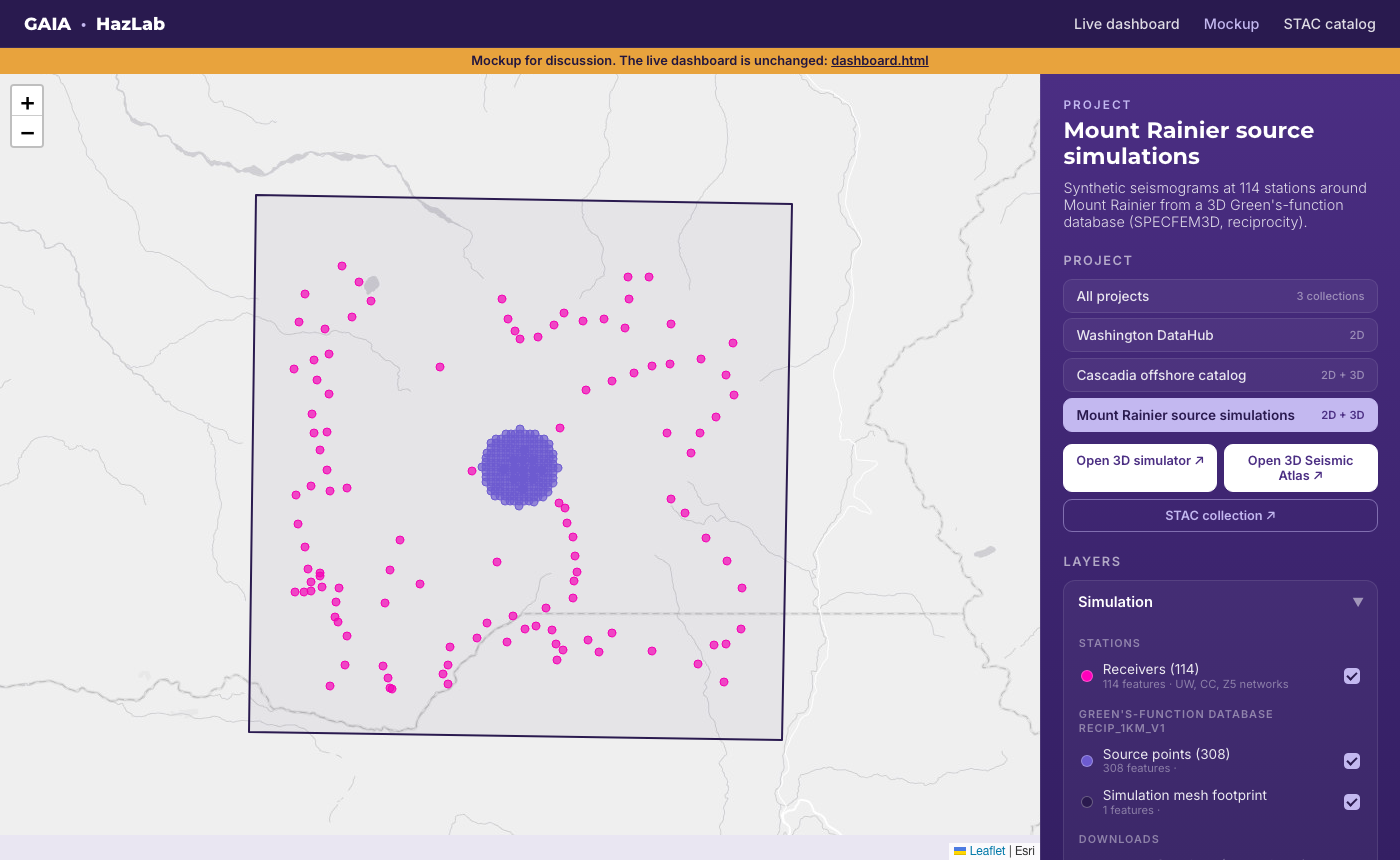
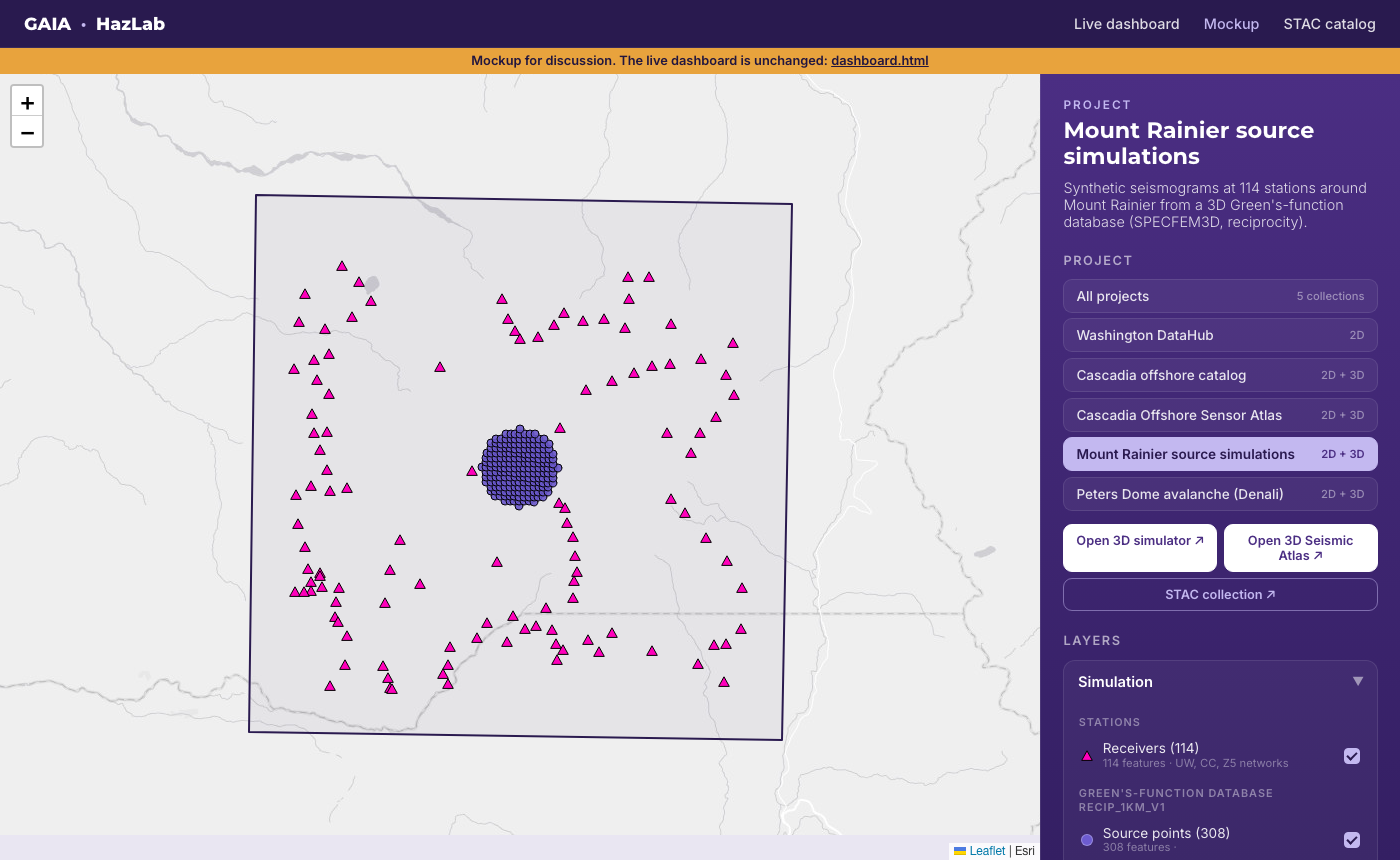
Mockup: one marker convention for every GAIA atlas
Seismometer = upright triangle, infrasound = inverted triangle, black 1 px
edge, 12 px on screen; other point sensors = 8 px circles with a black edge.
Encoded as gaia:style.symbol (or symbols by category) and applied in the
generator from one table (SENSOR_SYMBOLS): Washington seismometers and
infrasound, Cascadia stations, Rainier receivers, Peters Dome seismic and
infrasound, COSZO seismic sensors. Sidebar and legend show the same
markers. The convention and its sources are in 10-dashboard-stac.md.

diff --git a/website/mockups/dashboard-stac/index.html b/website/mockups/dashboard-stac/index.html
@@ -95,6 +95,7 @@
         .fp-label { background:rgba(42,26,79,0.9); color:#fff; border:0; border-radius:6px; font:600 0.78rem 'Inter'; padding:3px 7px; cursor:pointer; }
         .fp-label:hover { background:var(--peri); }
         .fp-label::before { display:none; }
+        .gm { background:none; border:0; }   /* SVG sensor markers (divIcon) */
         .legend { background:rgba(255,255,255,0.94); color:var(--ink); border-radius:8px; padding:0.5rem 0.65rem;
             font:0.72rem 'Inter'; box-shadow:0 1px 4px rgba(0,0,0,0.2); max-width:240px; }
         .legend:empty { display:none; }
@@ -180,6 +181,16 @@
         return `<div class="pop-title">${esc(name)}</div><div class="pop-table-wrap"><table class="pop-table">${rows}</table></div>${foot}`;
     }
 
+    // ---- GAIA atlas markers (same in every atlas, 2D and 3D; see project_coordination/10-dashboard-stac.md):
+    //      seismometer = upright triangle, infrasound = inverted triangle, other point sensors = circle;
+    //      black 1 px edge; triangles 12 px, circles 8 px, fixed on screen.
+    const MARKER_PATHS = { "triangle-up": "M6 0.8 L11.3 10.4 L0.7 10.4 Z", "triangle-down": "M0.7 1.6 L11.3 1.6 L6 11.2 Z" };
+    const markerSvg = (symbol, fill, px = 12) => MARKER_PATHS[symbol]
+        ? `<svg width="${px}" height="${px}" viewBox="0 0 12 12" style="overflow:visible;display:block"><path d="${MARKER_PATHS[symbol]}" fill="${fill}" stroke="#000" stroke-width="1" stroke-linejoin="round"/></svg>`
+        : `<svg width="${px}" height="${px}" viewBox="0 0 12 12" style="display:block"><circle cx="6" cy="6" r="4" fill="${fill}" stroke="#000" stroke-width="1"/></svg>`;
+    const markerIcon = (symbol, fill) => L.divIcon({ className:"gm", html:markerSvg(symbol, fill), iconSize:[12, 12], iconAnchor:[6, 6] });
+    const symbolFor = (st, p) => st.symbol || (st.symbols && p && st.symbols[p[st.property]]) || null;
+
     // ---- styles: points, sized events, lines, choropleth, categorical ----
     function fillFor(st, p) {
         if (st.kind === "choropleth") { const v = p[st.property]; if (v == null) return null;
@@ -195,8 +206,9 @@
             return `<b>${esc(t)}</b>` + st.colors.map((c, i) => `<div class="row"><span class="sw" style="background:${c}"></span>${lab[i]}</div>`).join("");
         }
         if (st.kind === "categorical")
-            return `<b>${esc(t)}</b>` + Object.entries(st.values).map(([k, c]) =>
-                `<div class="row"><span class="sw" style="background:${c}"></span>${esc((st.labels||{})[k] || k)}</div>`).join("");
+            return `<b>${esc(t)}</b>` + Object.entries(st.values).map(([k, c]) => {
+                const sym = st.symbols && st.symbols[k];
+                return `<div class="row">${sym ? `<span style="margin-right:2px">${markerSvg(sym, c)}</span>` : `<span class="sw" style="background:${c}"></span>`}${esc((st.labels||{})[k] || k)}</div>`; }).join("");
         return "";
     }
     function refreshLegend() {
@@ -228,9 +240,11 @@
         const g = L.geoJSON(null, {
             pointToLayer: (f, ll) => {
                 const c = fillFor(st, f.properties) || st.color || "#888";
+                const sym = symbolFor(st, f.properties);
+                if (sym) return L.marker(ll, { icon:markerIcon(sym, c), riseOnHover:true });
                 if (st.kind === "events") return L.circleMarker(ll, { radius:radius(f.properties), color:"#333", weight:0.5, fillColor:c, fillOpacity:0.8 });
-                if (st.kind === "markers" || st.kind === "categorical") return L.circleMarker(ll, { radius:radius(f.properties), color:"#222", weight:0.5, fillColor:c, fillOpacity:0.9 });
-                return L.circleMarker(ll, { radius:4, color:c, weight:1, fillColor:c, fillOpacity:0.7 });
+                if (st.kind === "markers" || st.kind === "categorical") return L.circleMarker(ll, { radius:radius(f.properties), color:"#000", weight:1, fillColor:c, fillOpacity:0.9 });
+                return L.circleMarker(ll, { radius:4, color:"#000", weight:1, fillColor:c, fillOpacity:0.9 });   // other point sensors: 8 px circle
             },
             style: f => {
                 if (f.geometry.type === "Point") return {};
@@ -274,7 +288,7 @@
         const swatch = st.colors ? st.colors[3] : st.values ? Object.values(st.values)[2] : st.color;
         const b = document.createElement("button");
         b.className = "item" + (ras ? " ras" : "") + (off ? " disabled" : "");
-        b.innerHTML = `<span class="dot" style="background:${swatch || 'rgba(195,184,240,0.5)'}"></span>
+        b.innerHTML = `${st.symbol ? `<span style="flex:0 0 auto">${markerSvg(st.symbol, swatch)}</span>` : `<span class="dot" style="background:${swatch || 'rgba(195,184,240,0.5)'}"></span>`}
             <span class="ilabel">${esc(P.title)}<small>${esc(off || (P.providers ? P.providers[0].name : ""))}</small></span><span class="chk"></span>`;
         if (off) return b;
         let layer = null;

diff --git a/scripts/mockup/build_dashboard_stac.py b/scripts/mockup/build_dashboard_stac.py
@@ -456,6 +456,27 @@ def exposure():
     return pid, col, items, {}
 
 
+# GAIA atlas marker convention (project_coordination/10-dashboard-stac.md): seismometer = upright triangle,
+# infrasound = inverted triangle, black edge, 12 px. Other point sensors stay 8 px circles with a black edge.
+SENSOR_SYMBOLS = {
+    ("washington", "seismometers"): "triangle-up", ("washington", "infrasound"): "triangle-down",
+    ("cascadia-offshore", "stations"): "triangle-up", ("mt-rainier", "receivers"): "triangle-up",
+    ("peters-dome", "seismic"): "triangle-up", ("peters-dome", "infrasound"): "triangle-down",
+}
+CATEGORY_SYMBOLS = {("coszo", "sensors"): {"seismic": "triangle-up"}}   # by the item's categorical property
+
+
+def apply_symbols(pid, items):
+    for it in items:
+        st = it["properties"].get("gaia:style")
+        if st is None:
+            continue
+        if (pid, it["id"]) in SENSOR_SYMBOLS:
+            st["symbol"] = SENSOR_SYMBOLS[(pid, it["id"])]
+        if (pid, it["id"]) in CATEGORY_SYMBOLS:
+            st["symbols"] = CATEGORY_SYMBOLS[(pid, it["id"])]
+
+
 def main():
     cascadia_html, rainier_index, coszo_dir, peters_dome_atlas, fetched = sys.argv[1:6]
     for sub in ("stac", "data"):
@@ -467,6 +488,7 @@ def main():
             "title": "GAIA dashboard (mockup)", "description": "One collection per project; one item per map layer.",
             "links": [{"rel": "root", "href": "./catalog.json", "type": "application/json"}]}
     for pid, col, items, data in projects:
+        apply_symbols(pid, items)
         root["links"].append({"rel": "child", "href": f"./{pid}/collection.json", "type": "application/json",
                               "title": col["title"]})
         write(ROOT / "stac" / pid / "collection.json", col)

diff --git a/project_coordination/10-dashboard-stac.md b/project_coordination/10-dashboard-stac.md
@@ -50,6 +50,23 @@ How a layer is encoded:
 | 3D viewers, reports | collection link, `rel: alternate`, `type: text/html` |
 | Menu group, colors, choropleth breaks, shared context | `gaia:` fields (no schema yet) |
 
+## Marker convention for every GAIA atlas
+
+The same sensor gets the same marker in the 2D dashboard and in every 3D atlas, at the same size on
+screen whatever the zoom. In STAC it is `gaia:style.symbol` (or `symbols` by category).
+
+| Sensor | Marker | Size | Edge |
+|---|---|---|---|
+| Seismometer | ▲ upright triangle (`triangle-up`) | 12 px | black, 1 px |
+| Infrasound | ▼ inverted triangle (`triangle-down`) | 12 px | black, 1 px |
+| Other point sensors (met, hydro, snow) | ● circle | 8 px | black, 1 px |
+
+Seismometers as upright triangles is the common convention. Infrasound has none: the IMS network is
+drawn with inverted triangles in seismo-acoustic papers, the Alaska Earthquake Center uses circles for
+infrasound-only sites, and an AVO map uses diamonds. We use the inverted triangle so ground and air
+sensors read as a pair. Applied so far in this mockup and in the Peters Dome atlas
+(gaia-peters-dome#6); the Cascadia, COSZO and Rainier atlases would adopt it in their own repositories.
+
 ## The mockup
 
 ![Overview: five projects, expected annual loss](img/dashboard-stac/1-mockup-overview.png)
